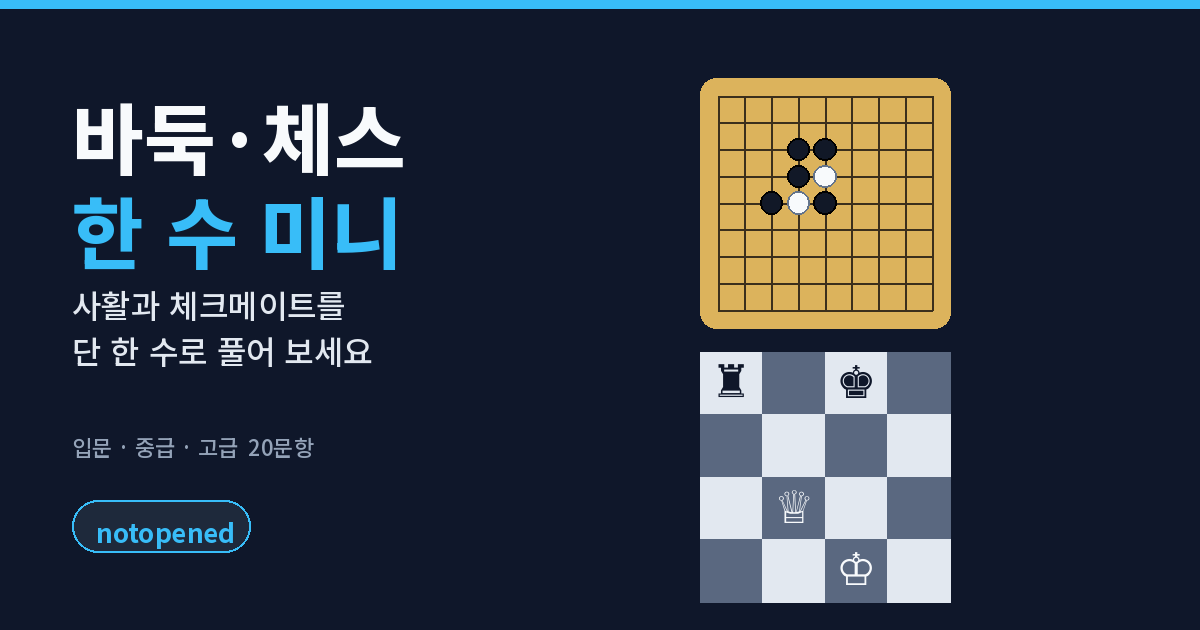
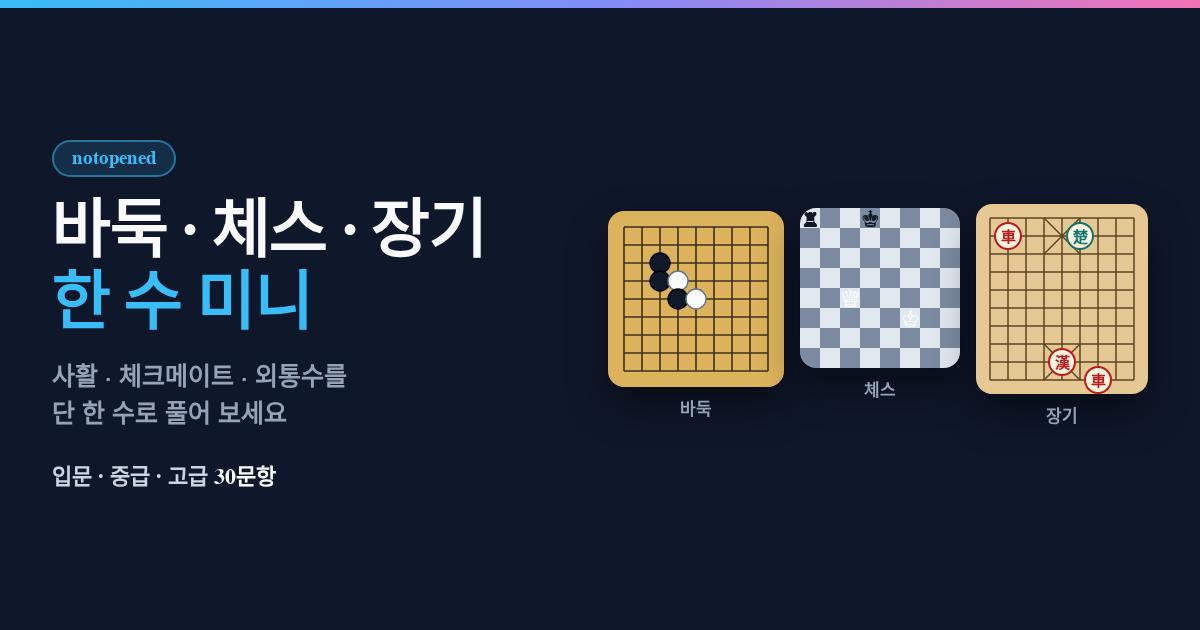
chore(og): 공유 카드 og.png를 바둑·체스·장기 3판·30문항으로 갱신
- tools/make_og.py 로 1200x630 카드를 재생성(비용 0, 외부 요청 없음)

diff --git a/tools/og_render.html b/tools/og_render.html
@@ -1,0 +1,36 @@
+<!DOCTYPE html>
+<html lang="ko"><head><meta charset="utf-8"><style>
+  * { margin:0; padding:0; box-sizing:border-box; }
+  body { width:1200px; height:630px; background:#0f172a; color:#f8fafc;
+         font-family:-apple-system,BlinkMacSystemFont,"Segoe UI","Noto Sans KR",sans-serif;
+         display:flex; align-items:center; gap:16px; padding:0 52px; overflow:hidden; position:relative; }
+  .bar { position:absolute; left:0; top:0; width:100%; height:8px;
+         background:linear-gradient(90deg,#38bdf8,#818cf8,#f472b6); }
+  .left { width:530px; flex:0 0 auto; }
+  .badge { display:inline-block; font-size:19px; font-weight:800; color:#38bdf8;
+           background:rgba(56,189,248,.14); border:2px solid rgba(56,189,248,.5);
+           padding:6px 18px; border-radius:999px; margin-bottom:20px; }
+  h1 { font-size:64px; line-height:1.12; font-weight:900; letter-spacing:-.02em; }
+  h1 .accent { color:#38bdf8; display:block; }
+  .sub { margin-top:18px; font-size:25px; line-height:1.5; color:#94a3b8; font-weight:600; }
+  .meta { margin-top:24px; font-size:22px; color:#cbd5e1; font-weight:700; }
+  .meta b { color:#f8fafc; }
+  .boards { display:flex; align-items:center; gap:16px; flex:1 1 auto; justify-content:flex-end; }
+  .board { border-radius:16px; overflow:hidden; box-shadow:0 18px 40px rgba(0,0,0,.45); display:block; }
+  .cap { text-align:center; font-size:17px; font-weight:800; color:#94a3b8; margin-top:8px; }
+  .col { display:flex; flex-direction:column; align-items:center; }
+</style></head>
+<body>
+<div class="bar"></div>
+<div class="left">
+  <span class="badge">notopened</span>
+  <h1>바둑 · 체스 · 장기<span class="accent">한 수 미니</span></h1>
+  <div class="sub">사활 · 체크메이트 · 외통수를<br>단 한 수로 풀어 보세요</div>
+  <div class="meta">입문 · 중급 · 고급 <b>30문항</b></div>
+</div>
+<div class="boards">
+  <div class="col"><svg class="board" width="176" height="176" viewBox="0 0 176 176"><rect width="176" height="176" fill="#dcb35c"/><g stroke="#3b2f1c" stroke-width="1.6"><line x1="16" y1="16" x2="160" y2="16"/><line x1="16" y1="16" x2="16" y2="160"/><line x1="16" y1="34" x2="160" y2="34"/><line x1="34" y1="16" x2="34" y2="160"/><line x1="16" y1="52" x2="160" y2="52"/><line x1="52" y1="16" x2="52" y2="160"/><line x1="16" y1="70" x2="160" y2="70"/><line x1="70" y1="16" x2="70" y2="160"/><line x1="16" y1="88" x2="160" y2="88"/><line x1="88" y1="16" x2="88" y2="160"/><line x1="16" y1="106" x2="160" y2="106"/><line x1="106" y1="16" x2="106" y2="160"/><line x1="16" y1="124" x2="160" y2="124"/><line x1="124" y1="16" x2="124" y2="160"/><line x1="16" y1="142" x2="160" y2="142"/><line x1="142" y1="16" x2="142" y2="160"/><line x1="16" y1="160" x2="160" y2="160"/><line x1="160" y1="16" x2="160" y2="160"/></g><circle cx="52" cy="52" r="10" fill="#111827" stroke="#000" stroke-width="1.4"/><circle cx="52" cy="70" r="10" fill="#111827" stroke="#000" stroke-width="1.4"/><circle cx="70" cy="70" r="10" fill="#f8fafc" stroke="#64748b" stroke-width="1.4"/><circle cx="70" cy="88" r="10" fill="#111827" stroke="#000" stroke-width="1.4"/><circle cx="88" cy="88" r="10" fill="#f8fafc" stroke="#64748b" stroke-width="1.4"/></svg><div class="cap">바둑</div></div>
+  <div class="col" style="margin-bottom:22px"><svg class="board" width="160" height="160" viewBox="0 0 160 160"><rect x="0" y="0" width="20" height="20" fill="#e2e8f0"/><rect x="20" y="0" width="20" height="20" fill="#7c8ba1"/><rect x="40" y="0" width="20" height="20" fill="#e2e8f0"/><rect x="60" y="0" width="20" height="20" fill="#7c8ba1"/><rect x="80" y="0" width="20" height="20" fill="#e2e8f0"/><rect x="100" y="0" width="20" height="20" fill="#7c8ba1"/><rect x="120" y="0" width="20" height="20" fill="#e2e8f0"/><rect x="140" y="0" width="20" height="20" fill="#7c8ba1"/><rect x="0" y="20" width="20" height="20" fill="#7c8ba1"/><rect x="20" y="20" width="20" height="20" fill="#e2e8f0"/><rect x="40" y="20" width="20" height="20" fill="#7c8ba1"/><rect x="60" y="20" width="20" height="20" fill="#e2e8f0"/><rect x="80" y="20" width="20" height="20" fill="#7c8ba1"/><rect x="100" y="20" width="20" height="20" fill="#e2e8f0"/><rect x="120" y="20" width="20" height="20" fill="#7c8ba1"/><rect x="140" y="20" width="20" height="20" fill="#e2e8f0"/><rect x="0" y="40" width="20" height="20" fill="#e2e8f0"/><rect x="20" y="40" width="20" height="20" fill="#7c8ba1"/><rect x="40" y="40" width="20" height="20" fill="#e2e8f0"/><rect x="60" y="40" width="20" height="20" fill="#7c8ba1"/><rect x="80" y="40" width="20" height="20" fill="#e2e8f0"/><rect x="100" y="40" width="20" height="20" fill="#7c8ba1"/><rect x="120" y="40" width="20" height="20" fill="#e2e8f0"/><rect x="140" y="40" width="20" height="20" fill="#7c8ba1"/><rect x="0" y="60" width="20" height="20" fill="#7c8ba1"/><rect x="20" y="60" width="20" height="20" fill="#e2e8f0"/><rect x="40" y="60" width="20" height="20" fill="#7c8ba1"/><rect x="60" y="60" width="20" height="20" fill="#e2e8f0"/><rect x="80" y="60" width="20" height="20" fill="#7c8ba1"/><rect x="100" y="60" width="20" height="20" fill="#e2e8f0"/><rect x="120" y="60" width="20" height="20" fill="#7c8ba1"/><rect x="140" y="60" width="20" height="20" fill="#e2e8f0"/><rect x="0" y="80" width="20" height="20" fill="#e2e8f0"/><rect x="20" y="80" width="20" height="20" fill="#7c8ba1"/><rect x="40" y="80" width="20" height="20" fill="#e2e8f0"/><rect x="60" y="80" width="20" height="20" fill="#7c8ba1"/><rect x="80" y="80" width="20" height="20" fill="#e2e8f0"/><rect x="100" y="80" width="20" height="20" fill="#7c8ba1"/><rect x="120" y="80" width="20" height="20" fill="#e2e8f0"/><rect x="140" y="80" width="20" height="20" fill="#7c8ba1"/><rect x="0" y="100" width="20" height="20" fill="#7c8ba1"/><rect x="20" y="100" width="20" height="20" fill="#e2e8f0"/><rect x="40" y="100" width="20" height="20" fill="#7c8ba1"/><rect x="60" y="100" width="20" height="20" fill="#e2e8f0"/><rect x="80" y="100" width="20" height="20" fill="#7c8ba1"/><rect x="100" y="100" width="20" height="20" fill="#e2e8f0"/><rect x="120" y="100" width="20" height="20" fill="#7c8ba1"/><rect x="140" y="100" width="20" height="20" fill="#e2e8f0"/><rect x="0" y="120" width="20" height="20" fill="#e2e8f0"/><rect x="20" y="120" width="20" height="20" fill="#7c8ba1"/><rect x="40" y="120" width="20" height="20" fill="#e2e8f0"/><rect x="60" y="120" width="20" height="20" fill="#7c8ba1"/><rect x="80" y="120" width="20" height="20" fill="#e2e8f0"/><rect x="100" y="120" width="20" height="20" fill="#7c8ba1"/><rect x="120" y="120" width="20" height="20" fill="#e2e8f0"/><rect x="140" y="120" width="20" height="20" fill="#7c8ba1"/><rect x="0" y="140" width="20" height="20" fill="#7c8ba1"/><rect x="20" y="140" width="20" height="20" fill="#e2e8f0"/><rect x="40" y="140" width="20" height="20" fill="#7c8ba1"/><rect x="60" y="140" width="20" height="20" fill="#e2e8f0"/><rect x="80" y="140" width="20" height="20" fill="#7c8ba1"/><rect x="100" y="140" width="20" height="20" fill="#e2e8f0"/><rect x="120" y="140" width="20" height="20" fill="#7c8ba1"/><rect x="140" y="140" width="20" height="20" fill="#e2e8f0"/><text x="10.0" y="19.0" font-size="26" text-anchor="middle" fill="#111827">♜</text><text x="70.0" y="19.0" font-size="26" text-anchor="middle" fill="#111827">♚</text><text x="50.0" y="99.0" font-size="26" text-anchor="middle" fill="#f8fafc">♕</text><text x="110.0" y="119.0" font-size="26" text-anchor="middle" fill="#f8fafc">♔</text></svg><div class="cap">체스</div></div>
+  <div class="col"><svg class="board" width="172" height="190" viewBox="0 0 172 190"><rect width="172" height="190" fill="#e6c894"/><g stroke="#5b4520" stroke-width="1.5"><line x1="14" y1="14" x2="158" y2="14"/><line x1="14" y1="32" x2="158" y2="32"/><line x1="14" y1="50" x2="158" y2="50"/><line x1="14" y1="68" x2="158" y2="68"/><line x1="14" y1="86" x2="158" y2="86"/><line x1="14" y1="104" x2="158" y2="104"/><line x1="14" y1="122" x2="158" y2="122"/><line x1="14" y1="140" x2="158" y2="140"/><line x1="14" y1="158" x2="158" y2="158"/><line x1="14" y1="176" x2="158" y2="176"/><line x1="14" y1="14" x2="14" y2="176"/><line x1="32" y1="14" x2="32" y2="176"/><line x1="50" y1="14" x2="50" y2="176"/><line x1="68" y1="14" x2="68" y2="176"/><line x1="86" y1="14" x2="86" y2="176"/><line x1="104" y1="14" x2="104" y2="176"/><line x1="122" y1="14" x2="122" y2="176"/><line x1="140" y1="14" x2="140" y2="176"/><line x1="158" y1="14" x2="158" y2="176"/><line x1="68" y1="14" x2="104" y2="50"/><line x1="104" y1="14" x2="68" y2="50"/><line x1="68" y1="140" x2="104" y2="176"/><line x1="104" y1="140" x2="68" y2="176"/></g><circle cx="32" cy="32" r="13" fill="#fdf3df" stroke="#b91c1c" stroke-width="2"/><text x="32" y="37.5" font-size="15" font-weight="700" text-anchor="middle" fill="#b91c1c">車</text><circle cx="104" cy="32" r="13" fill="#fdf3df" stroke="#0f766e" stroke-width="2"/><text x="104" y="37.5" font-size="15" font-weight="700" text-anchor="middle" fill="#0f766e">楚</text><circle cx="86" cy="158" r="13" fill="#fdf3df" stroke="#b91c1c" stroke-width="2"/><text x="86" y="163.5" font-size="15" font-weight="700" text-anchor="middle" fill="#b91c1c">漢</text><circle cx="122" cy="176" r="13" fill="#fdf3df" stroke="#b91c1c" stroke-width="2"/><text x="122" y="181.5" font-size="15" font-weight="700" text-anchor="middle" fill="#b91c1c">車</text></svg><div class="cap">장기</div></div>
+</div>
+</body></html>

diff --git a/tools/make_og.py b/tools/make_og.py
@@ -1,0 +1,125 @@
+#!/usr/bin/env python3
+"""og.png(1200×630 공유 카드)를 만든다 — 바둑·체스·장기 세 판을 그린다.
+
+    python3 tools/make_og.py    # → og.png
+"""
+import os
+
+HERE = os.path.dirname(os.path.abspath(__file__))
+ROOT = os.path.dirname(HERE)
+
+
+def go_board():
+    pad, cell, n = 16, 18, 9
+    size = pad * 2 + cell * (n - 1)
+    parts = [f'<rect width="{size}" height="{size}" fill="#dcb35c"/>', '<g stroke="#3b2f1c" stroke-width="1.6">']
+    for i in range(n):
+        p = pad + i * cell
+        parts.append(f'<line x1="{pad}" y1="{p}" x2="{size - pad}" y2="{p}"/>')
+        parts.append(f'<line x1="{p}" y1="{pad}" x2="{p}" y2="{size - pad}"/>')
+    parts.append("</g>")
+    stones = [("B", 2, 2), ("B", 3, 2), ("W", 3, 3), ("B", 4, 3), ("W", 4, 4)]
+    for col, r, c in stones:
+        fill = "#111827" if col == "B" else "#f8fafc"
+        stroke = "#000" if col == "B" else "#64748b"
+        parts.append(f'<circle cx="{pad + c * cell}" cy="{pad + r * cell}" r="10" fill="{fill}" stroke="{stroke}" stroke-width="1.4"/>')
+    return f'<svg class="board" width="{size}" height="{size}" viewBox="0 0 {size} {size}">' + "".join(parts) + "</svg>"
+
+
+def chess_board():
+    cell, n = 20, 8
+    size = cell * n
+    parts = []
+    for r in range(n):
+        for c in range(n):
+            fill = "#e2e8f0" if (r + c) % 2 == 0 else "#7c8ba1"
+            parts.append(f'<rect x="{c * cell}" y="{r * cell}" width="{cell}" height="{cell}" fill="{fill}"/>')
+    pieces = [("♜", 0, 0, "#111827"), ("♚", 0, 3, "#111827"), ("♕", 4, 2, "#f8fafc"), ("♔", 5, 5, "#f8fafc")]
+    for sym, r, c, ink in pieces:
+        parts.append(f'<text x="{c * cell + cell / 2}" y="{r * cell + cell / 2 + 9}" font-size="26" text-anchor="middle" fill="{ink}">{sym}</text>')
+    return f'<svg class="board" width="{size}" height="{size}" viewBox="0 0 {size} {size}">' + "".join(parts) + "</svg>"
+
+
+def janggi_board():
+    cols, rows = 9, 10
+    pad, cell = 14, 18
+    w = pad * 2 + cell * (cols - 1)
+    h = pad * 2 + cell * (rows - 1)
+    parts = [f'<rect width="{w}" height="{h}" fill="#e6c894"/>', '<g stroke="#5b4520" stroke-width="1.5">']
+    for r in range(rows):
+        parts.append(f'<line x1="{pad}" y1="{pad + r * cell}" x2="{w - pad}" y2="{pad + r * cell}"/>')
+    for c in range(cols):
+        parts.append(f'<line x1="{pad + c * cell}" y1="{pad}" x2="{pad + c * cell}" y2="{h - pad}"/>')
+    for a, b in (((0, 3), (2, 5)), ((0, 5), (2, 3)), ((7, 3), (9, 5)), ((7, 5), (9, 3))):
+        parts.append(f'<line x1="{pad + a[1] * cell}" y1="{pad + a[0] * cell}" x2="{pad + b[1] * cell}" y2="{pad + b[0] * cell}"/>')
+    parts.append("</g>")
+    pieces = [("車", 1, 1, "#b91c1c"), ("楚", 1, 5, "#0f766e"), ("漢", 8, 4, "#b91c1c"), ("車", 9, 6, "#b91c1c")]
+    for sym, r, c, color in pieces:
+        cx, cy = pad + c * cell, pad + r * cell
+        parts.append(f'<circle cx="{cx}" cy="{cy}" r="13" fill="#fdf3df" stroke="{color}" stroke-width="2"/>')
+        parts.append(f'<text x="{cx}" y="{cy + 5.5}" font-size="15" font-weight="700" text-anchor="middle" fill="{color}">{sym}</text>')
+    return f'<svg class="board" width="{w}" height="{h}" viewBox="0 0 {w} {h}">' + "".join(parts) + "</svg>"
+
+
+HTML = """<!DOCTYPE html>
+<html lang="ko"><head><meta charset="utf-8"><style>
+  * {{ margin:0; padding:0; box-sizing:border-box; }}
+  body {{ width:1200px; height:630px; background:#0f172a; color:#f8fafc;
+         font-family:-apple-system,BlinkMacSystemFont,"Segoe UI","Noto Sans KR",sans-serif;
+         display:flex; align-items:center; gap:16px; padding:0 52px; overflow:hidden; position:relative; }}
+  .bar {{ position:absolute; left:0; top:0; width:100%; height:8px;
+         background:linear-gradient(90deg,#38bdf8,#818cf8,#f472b6); }}
+  .left {{ width:530px; flex:0 0 auto; }}
+  .badge {{ display:inline-block; font-size:19px; font-weight:800; color:#38bdf8;
+           background:rgba(56,189,248,.14); border:2px solid rgba(56,189,248,.5);
+           padding:6px 18px; border-radius:999px; margin-bottom:20px; }}
+  h1 {{ font-size:64px; line-height:1.12; font-weight:900; letter-spacing:-.02em; }}
+  h1 .accent {{ color:#38bdf8; display:block; }}
+  .sub {{ margin-top:18px; font-size:25px; line-height:1.5; color:#94a3b8; font-weight:600; }}
+  .meta {{ margin-top:24px; font-size:22px; color:#cbd5e1; font-weight:700; }}
+  .meta b {{ color:#f8fafc; }}
+  .boards {{ display:flex; align-items:center; gap:16px; flex:1 1 auto; justify-content:flex-end; }}
+  .board {{ border-radius:16px; overflow:hidden; box-shadow:0 18px 40px rgba(0,0,0,.45); display:block; }}
+  .cap {{ text-align:center; font-size:17px; font-weight:800; color:#94a3b8; margin-top:8px; }}
+  .col {{ display:flex; flex-direction:column; align-items:center; }}
+</style></head>
+<body>
+<div class="bar"></div>
+<div class="left">
+  <span class="badge">notopened</span>
+  <h1>바둑 · 체스 · 장기<span class="accent">한 수 미니</span></h1>
+  <div class="sub">사활 · 체크메이트 · 외통수를<br>단 한 수로 풀어 보세요</div>
+  <div class="meta">입문 · 중급 · 고급 <b>30문항</b></div>
+</div>
+<div class="boards">
+  <div class="col">{go}<div class="cap">바둑</div></div>
+  <div class="col" style="margin-bottom:22px">{chess}<div class="cap">체스</div></div>
+  <div class="col">{janggi}<div class="cap">장기</div></div>
+</div>
+</body></html>
+"""
+
+
+def main():
+    from playwright.sync_api import sync_playwright
+
+    html = HTML.format(go=go_board(), chess=chess_board(), janggi=janggi_board())
+    path = os.path.join(HERE, "og_render.html")
+    with open(path, "w", encoding="utf-8") as f:
+        f.write(html)
+    with sync_playwright() as pw:
+        try:
+            browser = pw.chromium.launch(channel="chrome", args=["--no-sandbox"])
+        except Exception:
+            browser = pw.chromium.launch(args=["--no-sandbox"])
+        ctx = browser.new_context(viewport={"width": 1200, "height": 630}, device_scale_factor=1)
+        page = ctx.new_page()
+        page.goto("file://" + path)
+        page.wait_for_timeout(400)
+        page.screenshot(path=os.path.join(ROOT, "og.png"))
+        browser.close()
+    print("wrote", os.path.join(ROOT, "og.png"))
+
+
+if __name__ == "__main__":
+    main()
